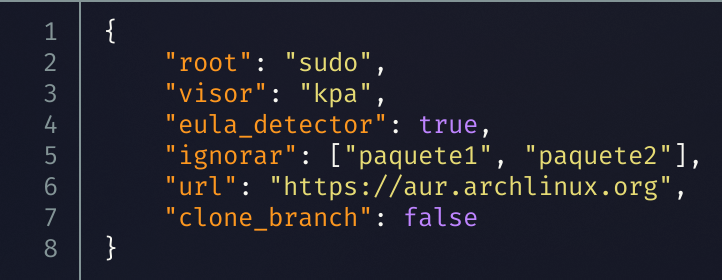
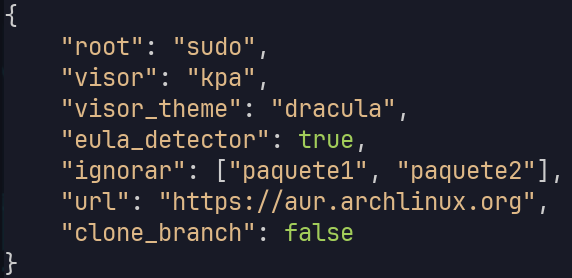
Update KPA docs

Changed region(s): [[0.0, 0.0, 1.0, 1.0], [0.0, 0.8921, 0.0297, 1.0]]

diff --git a/documentacion/kpa.html b/documentacion/kpa.html
@@ -6,110 +6,111 @@
     <link rel="stylesheet" href="/KevinCrrl/estilos.css">
 </head>
 <body>
+    <header><b>KevinCrrl Python AUR Helper: Creado para automatizar de manera segura.</b></header>
     <h1>KPA: Documentación</h1>
     <div class="aviso">KPA es un proyecto independiente usado en sistemas Arch Linux y derivados, sin embargo, ni KPA ni su creador tienen relaciones con Arch Linux ni con su nombre oficial.</div>
     <p>
         Este es un proyecto que busca la seguridad y el minimalismo para automatizar la clonación de PKGBUILD y construcción a partir de ellos usando el AUR (Arch User Repository), 
         ya que la forma clásica de instalar paquetes desde el AUR es de manera manual, sin embargo, ya que suele ser un proceso complejo, se crean estos programas, 
         desafortunadamente, un helper puede ser riesgoso ya que ejecuta el PKGBUILD sin intervención humana, además que puede ocultar procesos importantes o incluso reemplazar herramientas clásicas, 
-        pues en los PKGBUILD pueden haber comandos maliciosos que se pueden ejecutar pidiendo permisos root al usuario, todo esto rompe la actividad clásica de usar las herramientas propias del sistema Arch Linux.
+        pues en los PKGBUILD pueden haber comandos maliciosos que se pueden ejecutar pidiendo permisos root, todo esto rompe la actividad clásica de usar las herramientas propias del sistema Arch Linux 
+        como Git, Makepkg, PacMan o su editor de preferencia.
     </p>
-    <br>
     <h2>Disponibilidad</h2>
     <p>El código fuente de KPA se encuentra en <a href="https://github.com/KevinCrrl/kpa">GitHub</a>, está disponible como paquete python en versiones iguales y posteriores a 2.0.0 y para versiones anteriores a 2.0.0 está compilado para arquitecturas aarch64 y x86_64 con pyinstaller (disponibles en <a href="https://github.com/KevinCrrl/kpa/releases">releases</a>)
-         y se puede automatizar la instalación vía <a href="https://aur.archlinux.org/packages/kpa">kpa en AUR</a> (el paquete kpa-bin ya no será mantenido oficialmente).</p>
+         y se puede automatizar la instalación vía <a href="https://aur.archlinux.org/packages/kpa">kpa en AUR</a> (el paquete kpa-bin ya no será mantenido oficialmente y solicité su eliminación del AUR).</p>
     <br>
     <p>
-        Por cierto, esta documentación corresponde a la versión 2.3.0 de KPA y superiores.
+        Por cierto, esta documentación corresponde a la versión 3.0.0 de KPA y superiores que puedan existir.
     </p>
-    <br>
     <h2>Diferencias de este AUR helper</h2>
     <p>
-        kpa automatiza las herramientas propias de Arch, el entorno Linux y el control de versiones a diferencia de otros AUR Helper que se limitan a sus propias implementaciones y/o reemplazan programas y no ofrecen una mejor transparencia del proceso.
+        kpa automatiza las herramientas propias de Arch, el entorno Linux y el control de versiones a diferencia de otros AUR Helper que se limitan a sus propias implementaciones y/o reemplazan programas y no ofrecen una mejor transparencia del proceso o un proceso de configuración para usar herramientas diferentes.
     <br>
         - Tiene varios comandos simples:
         <br>
-        -I: Instalar
+        Ins: Instalar
         <br>
-        -A: Actualizar
+        Act: Actualizar
         <br>
-        -D: Desinstalar (Usa `pacman -R`).
+        Des: Desinstalar (Usa `pacman -R`).
         <br>
-        -R: Reinstalar
+        Limp: Limpiar el sistema
         <br>
-        -L: Limpiar el sistema
-        <br>
-        -C: Configurar KPA mediante CLI y escribir esa configuración al archivo kpa.json
+        Conf: Configurar KPA mediante CLI y escribir esa configuración al archivo kpa.json
         <br>
         <br>
-        De estos comandos -I y -A se pueden usar con --verbose para ver las salidas de Git (Solo a partir de la versión 2.2.0).
+        De estos comandos Ins y Act se pueden usar con --verbose para ver las salidas de Git (Solo a partir de la versión 2.2.0).
         <br>
-        
-        Puede ejecutar kpa --help para obtener más información.
-        <br>
-        - Confirmación del usuario: Antes de usar makepkg, se le muestra al usuario el PKGBUILD para que lo pueda leer y decidir dentro de la interfaz de consola del programa si quiere continuar o cancelar, además por defecto tiene un detector de EULA que le advierte al usuario si un paquete lo contiene (ahora con una detección mejorada gracias a `pkgbuild-parser` que analiza el campo de licencia del PKGBUILD) (aunque se puede desactivar).
-        <br>
-        <br>
-        - Python puro: kpa sigue una filosofía minimalista, por ello no usa bases de datos del AUR, controles de versiones innecesarios o configuraciones que no tienen que ver con la libertad o personalización para el usuario, kpa solo sigue su objetivo de automatizar y ser útil, por ello usa sus propias carpetas para almacenar los repositorios del AUR clonados, para poder recorrerlos en actualizaciones, verificar su existencia y comparar PKGBUILDs de forma más robusta gracias a `pkgbuild-parser`, además de su propia forma de configuración liviana en JSON para darle libertad al usuario sobre como quiere usar su AUR helper sin comprometer peso o portabilidad del programa.
-        <br>
-        <br>
-        - Sin tantas dependencias: kpa depende de las librerías propias de Python y de unas cuantas externas, lo cual no debe ser un gran peso, ya que Python viene instalado en la mayoría de sistemas Linux, y las librerías externas se pueden instalar en un entorno virtual vía pip, además se usa solo lo suficiente para la construcción de paquetes del AUR, o sea, Git y makepkg que según la <a href="https://wiki.archlinux.org/title/Makepkg_(Espa%C3%B1ol)">wiki</a> de Arch ya viene por defecto en el paquete Pacman.<br>
-    <br>
+        A partir de la versión 3.0.0, Ins y Act tienen múltiples banderas, para consultarlas y ver que hace cada una, use:
+        <pre>
+            <code>
+                kpa Ins --help
+                # y/o
+                kpa Act --help
+            </code>
+        </pre>
     </p>
-    <br>
+    <p>
+        Puede ejecutar kpa --help para obtener más información de los comandos principales.
+        <br>
+        - Confirmación del usuario: Antes de usar makepkg, se muestra el PKGBUILD para que se pueda leer y decidir dentro de la interfaz de consola del programa si quiere continuar o cancelar, además por defecto tiene un detector de EULA que le advierte si un paquete lo contiene (aunque se puede desactivar).
+        <br>
+        <br>
+        - diffs y scripts .install: Desde la versión 3.0.0, KPA muestra, además del PKGBUILD, el script .install en una instalación, y el diff de cambios en una actualización, premitiendo no depender solo del PKGBUILD y auditar cambios rapidamente o supervisar que un archivo extra no ejecute comandos no deseados.
+        <br>
+        <br>
+        - Python puro: kpa sigue una filosofía minimalista, por ello no usa bases de datos del AUR, controles de versiones innecesarios o configuraciones que no tienen que ver con la libertad o personalización, kpa solo sigue su objetivo de automatizar y ser útil, por ello usa sus propias carpetas para almacenar los repositorios del AUR clonados, para poder recorrerlos en actualizaciones, verificar su existencia y comparar PKGBUILDs gracias a `pkgbuild-parser`, además de su propia forma de configuración liviana en JSON para darle libertad sobre como quiere usar su AUR helper sin comprometer peso o portabilidad del programa.
+        <br>
+        <br>
+        - Sin tantas dependencias, solo Python y herramientas de desarrollo: kpa depende de las librerías propias de Python y de unas cuantas externas, lo cual no debe ser un gran peso, ya que Python viene instalado en la mayoría de sistemas, y las librerías externas se pueden instalar en un entorno virtual vía pip, además se usa solo lo suficiente para la construcción de paquetes del AUR, o sea, Git y makepkg que según la <a href="https://wiki.archlinux.org/title/Makepkg_(Espa%C3%B1ol)">wiki</a> de Arch ya viene por defecto en el paquete Pacman.<br>
+    </p>
     <h2>Construcción e instalación</h2>
     <p>Visite este <a href="/KevinCrrl/documentacion/kpa/construccion_e_instalacion.html">sitio</a> para construir e instalar KPA.</p>
-    <br>
-    <h2>El parámetro -L</h2>
+    <h2>El parámetro Limp</h2>
     <p>
-        Permite limpiar el sistema de paquetes innecesarios, actualmente soporta la limpieza de paquetes de depuración (debug), paquetes huérfanos y caché de la carpeta de KPA.
+        Permite limpiar el sistema de paquetes innecesarios, actualmente soporta la limpieza de paquetes huérfanos y caché de la carpeta de KPA.
     </p>
-    <br>
     <pre>
     <code>
-        $ kpa -L debug
+        $ kpa Limp huerfanos
         # O
-        $ kpa -L huerfanos
-        # O
-        $ kpa -L cache
+        $ kpa Limp cache
     </code>
     </pre>
-    <br>
     <p>
-        Al usar <code>-L debug</code>, KPA buscará paquetes instalados que contengan "debug" en su nombre y le preguntará si desea eliminarlos.
+        Al usar <code>Limp huerfanos</code>, KPA buscará paquetes que fueron instalados como dependencias pero que ya no son requeridos por ningún paquete, y le preguntará si desea eliminarlos.
         <br>
-        Al usar <code>-L huerfanos</code>, KPA buscará paquetes que fueron instalados como dependencias pero que ya no son requeridos por ningún paquete, y le preguntará si desea eliminarlos.
-        <br>
-        Al usar <code>-L cache</code>, KPA eliminará los residuos de archivos comprimidos y carpetas src y pkg de la carpeta donde KPA construye y almacena los PKGBUILD.
+        Al usar <code>Limp cache</code>, KPA eliminará los residuos de archivos comprimidos y carpetas src y pkg de la carpeta donde KPA construye y almacena los PKGBUILD.
     </p>
-    <br>
     <h2>kpa.json</h2>
-    <div class="advertencia">La inclusión de proxychains en KPA ha sido retirada en la versión 2.2.0, para usar proxychains debe hacerlo por la línea de comandos, por ejemplo: <pre><code>$ proxychains kpa -I [PAQUETE]</code></pre></div>
+    <div class="advertencia">La inclusión de proxychains en KPA ha sido retirada en la versión 2.2.0, para usar proxychains debe hacerlo por la línea de comandos, por ejemplo: <pre><code>$ proxychains kpa Ins [PAQUETE]</code></pre></div>
     <p>
-        Este archivo permite a KPA saber que programas externos usar o como se debe comportar, todo con el fin de mejorar la experiencia del usuario y no limitar a que todo el que use KPA sea obligado a usarlo como lo usan los demás, 
-        para que no existan problemas en caso de que un usuario no cree el archivo, KPA incluye una configuración interna que se usa tanto si no existe el archivo de configuración como cuando el usuario solo configura algunas cosas.
+        Este archivo permite a KPA saber que programas externos usar o como se debe comportar, todo con el fin de mejorar la experiencia y no limitar a que todo el que use KPA sea obligado a usarlo como lo usan los demás, 
+        para que no existan problemas en caso de que no cree el archivo, KPA incluye una configuración interna que se usa tanto si no existe el archivo de configuración como cuando solo configura algunas cosas.
         <br>
-        A partir de la versión 1.5.0, el usuario puede definir solo las variables que desee sin que se produzcan errores.
+        A partir de la versión 1.5.0, puede definir solo las variables que desee sin que se produzcan errores.
         A continuación, se explica para que se usan cada una de las variables en el archivo kpa.json en caso de que quiera personalizar la experiencia:
         <br>
         El archivo se ubica en <code>$XDG_CONFIG_HOME/kpa/kpa.json</code> (normalmente <code>~/.config/kpa/kpa.json</code>).
         <br>
         <ul>
-            <li>visor: Esta variable se usa para ver y/o editar los PKGBUILDs, por defecto usa la variable "kpa", ese valor significa que se usará el visor incorporado en KPA, es un visor muy simple, se puede ver su funcionamiento en <a href="https://github.com/KevinCrrl/kpa/blob/main/kpa/funciones.py">la función</a> <code>visor()</code> en el código de KPA, 
-            comprendiendo entonces lo pequeño que es este visor, el usuario puede dejarlo usando la variable "kpa" nuevamente en su archivo de configuración, sin embargo puede usar otros visores como cat o bat, y hasta editores como nano o Vim.</li>
+            <li>visor: Esta variable se usa para ver los PKGBUILDs, por defecto usa "kpa", ese valor significa que se usará el visor incorporado en KPA, es un visor que ofrece resaltado para código Bash y diffs, se puede ver su funcionamiento en <a href="https://github.com/KevinCrrl/kpa/blob/main/kpa/extra_utils.py#L49">esta función</a> en el código de KPA, 
+            comprendiendo entonces lo como funciona este visor, puede considerar usar otros visores como cat o bat.</li>
             <br>
-            <li>root: Permite personalizar con que programa el usuario quiere ejecutar acciones que requieren permisos root, por ejemplo, puede usar sudo, doas o incluso pkexec, por defecto la variable se define en "sudo".</li>
+            <li>visor_theme: Configura el tema con el que el visor integrado mostrará los archivos, por defecto usa Monokai, pero puede cambiarse usando un estilo de <a href="https://pygments.org/styles/">Pygments</a></li>
             <br>
-            <li>ignorar: Es una variable de tipo array, por ende se crea con dos corchetes [] y dentro de ella se incluyen los nombres de paquetes que se quieren ignorar durante una actualización, ya sea para paquetes congelados por estabilidad o que cuyos cambios serán aplicados por el mismo usuario. Si no quiere ignorar algún paquete deje los corchetes vacíos.</li>
+            <li>root: Permite personalizar con que programa quiere ejecutar acciones que requieren permisos root, por ejemplo, puede usar sudo, doas o incluso pkexec, por defecto la variable se define en "sudo".</li>
             <br>
-            <li>eula_detector: Se usa con un valor booleano (true/false) y permite activar o desactivar la detección de licencias EULA en la carpeta del proyecto clonado, la detección no es perfecta, pueden haber paquetes con EULA que no sean detectados o falsos positivos, por eso se recomienda revisar la carpeta del proyecto en caso de que se detcte EULA para verificar su existencia.</li>
+            <li>ignorar: Es de tipo array, dentro de ella se incluyen los nombres de paquetes que se quieren ignorar durante una actualización, ya sea para paquetes congelados por estabilidad o que cuyos cambios serán aplicados por el mismo usuario.</li>
             <br>
-            <li>url: Aquí el usuario puede decirle a KPA que clone desde una URL diferente al AUR original, ya sea URLs de AURs con paquetes seleccionados o mirrors del AUR oficial, sin embargo, se recomienda usar la URL oficial siempre o mirrors oficiales como el de <a href="https://github.com/archlinux/aur">GitHub</a>, aún así, sin importar que URL use, es responsabilidad del usuario estar seguro de los paquetes que baja y usa, esto no es responsabilidad de nadie más, ni siquiera del creador de KPA.</li>
+            <li>eula_detector: Se usa con un valor booleano (true/false) y permite activar o desactivar la detección de licencias EULA en la carpeta del proyecto clonado, la detección no es perfecta, pueden haber paquetes con EULA que no sean detectados o falsos positivos, por eso se recomienda revisar la carpeta del proyecto en caso de que se detecte EULA para verificar su existencia.</li>
             <br>
-            <li>clone_branch: Ciertas URLs como el mirror de GitHub de archlinux pueden requerir usar un comando especial para clonar, en este caso clone_branch que es una variable de tipo booleano (true o false) le dice a KPA si usar el comando <code>git clone --branch paquete --single-branch url_del_repo paquete</code> o clonar de manera normal.</li>
+            <li>url: Aquí puede decirle a KPA que clone desde una URL diferente al AUR original, ya sea URLs de AURs con paquetes seleccionados o mirrors del AUR oficial, sin embargo, se recomienda usar la URL oficial siempre o mirrors oficiales como el de <a href="https://github.com/archlinux/aur">GitHub</a>, aún así, sin importar que URL use, es responsabilidad del usuario estar seguro de los paquetes que baja y usa, esto no es responsabilidad de nadie más, ni siquiera del creador de KPA.</li>
+            <br>
+            <li>clone_branch: Ciertas URLs como el mirror de GitHub de archlinux pueden requerir usar un comando especial para clonar, en este caso clone_branch que es una variable de tipo booleano (true/false) le dice a KPA si usar el comando <code>git clone --branch paquete --single-branch url_del_repo paquete</code> o clonar de manera normal.</li>
         </ul>
     </p>
-    <br>
     <h3>Ejemplo</h3>
     <div style="text-align: center;">
         <img src="/KevinCrrl/assets/json.png" alt="Ejemplo de kpa.json">

diff --git a/estilos.css b/estilos.css
@@ -4,6 +4,17 @@ body {
     margin: 50px;
 }
 
+header {
+    font-size: 30px;
+    color: rgb(42, 7, 100);
+    background-color: rgb(29, 197, 240);
+    text-align: center;
+    margin-left: -50px;
+    margin-right: -50px;
+    margin-top: -50px; 
+    padding: 20px;
+}
+
 h1 {
     font-size: 60px;
     color: rgb(98, 224, 247);
